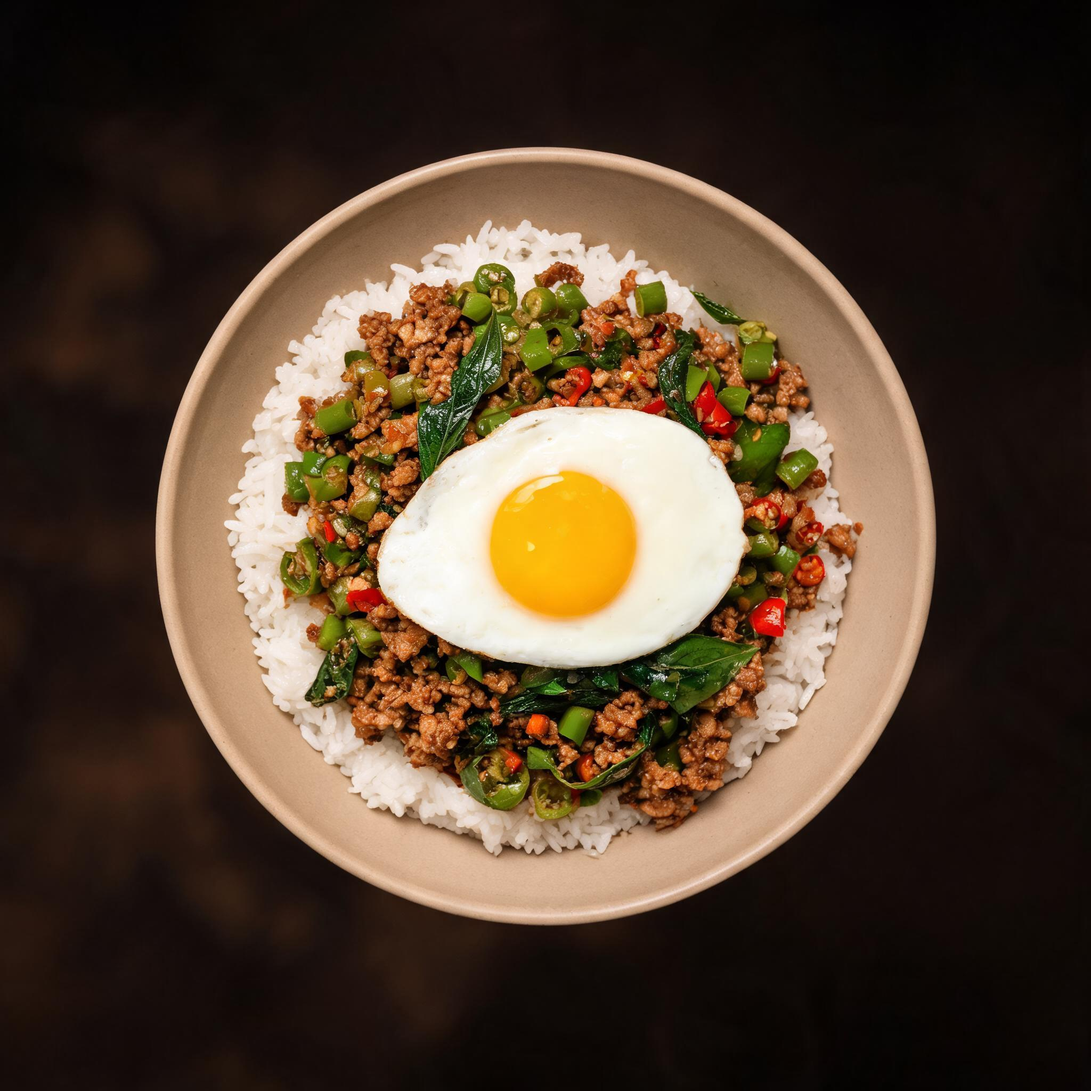
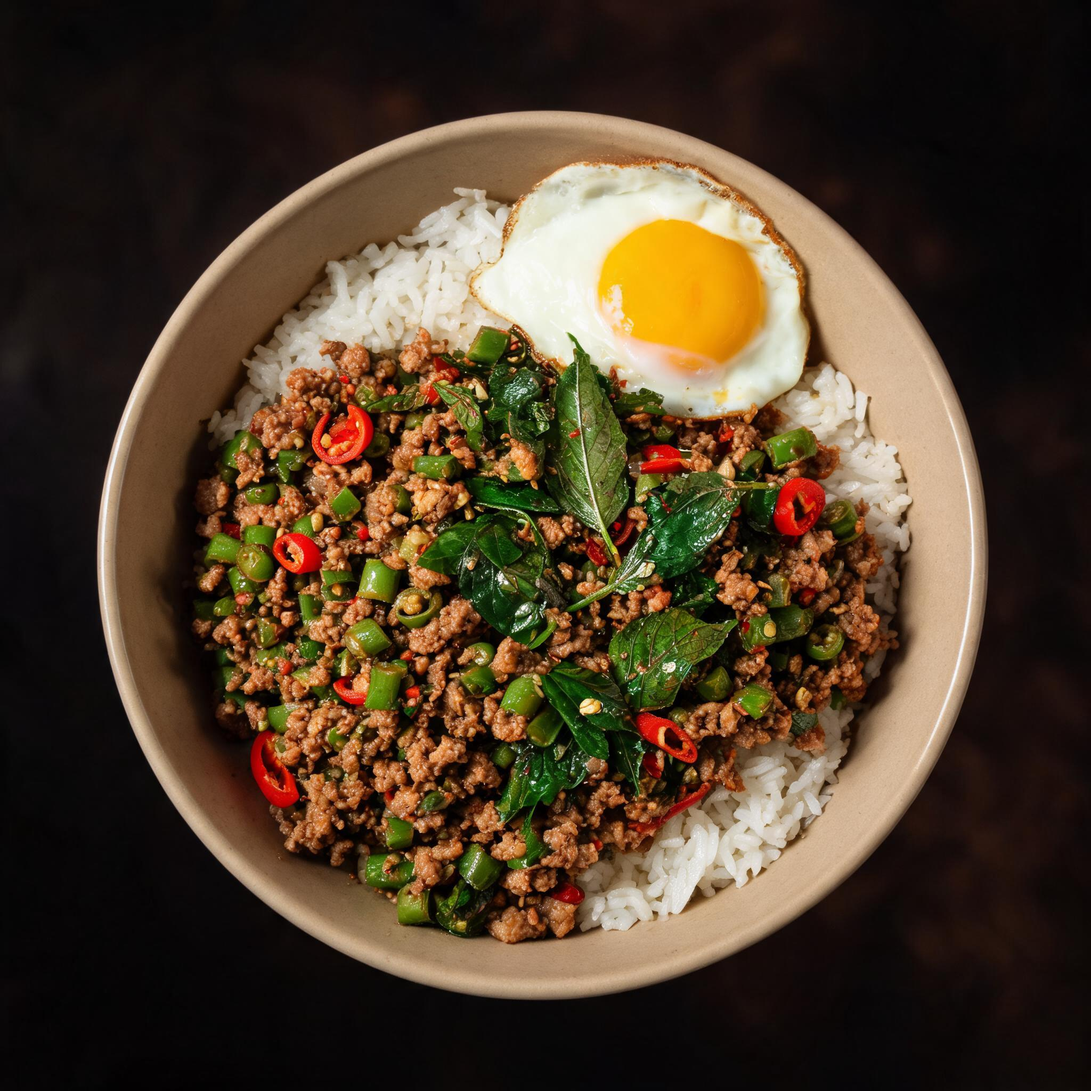
fix: rename to taishi pork dapaofan + smaller egg side

diff --git a/index.html b/index.html
@@ -317,7 +317,7 @@
       { id:'shuizhufn',   category:'川菜',  name:'水煮肥牛',     price:0, desc:'红油翻滚肥牛嫩，一勺热油滋啦魂。',      img:'./images/shuizhufn.jpg',    ingredients:'肥牛片、豆芽、千张丝、郫县豆瓣酱、火锅底料、辣椒面、花椒、葱花。', detail:'薄嫩肥牛在红油里打了个滚，铺在脆爽豆芽上，热油泼下滋啦一声，麻辣鲜香直冲天灵盖。', nutrition:'碳水 12% · 蛋白质 45% · 脂肪 43%', taste:4.3, selectedCount:0, steps:['肥牛焯熟捞出备用。','豆芽、千张丝焯出沥干。','葱姜蒜爆香，加1勺豆瓣酱和半块火锅底料炒化。','倒一碗清水煮开，加2勺生抽1勺老抽和少许鸡精盐。','下豆芽千张丝煮熟捞出铺碗底。','下肥牛煮入味，捞出铺在配菜上。','撒辣椒面、花椒、葱花。','热油泼上激出香味。'], tips:'肥牛焯水不超过20秒，变色就捞出，久了会老。' },
       { id:'jiaoyantudou',category:'家常菜',name:'椒盐土豆片',   price:0, desc:'外焦里糯椒盐香，黑芝麻点睛一口脆。',      img:'./images/jiaoyantudou.jpg', ingredients:'土豆、椒盐粉、黑芝麻、食用油。',                                 detail:'每一片煎到金黄起焦，椒盐咸香钻进软糯土豆芯，黑芝麻的坚果香在齿间炸开，简单却停不下来。', nutrition:'碳水 75% · 蛋白质 8% · 脂肪 17%', taste:2.3, selectedCount:0, steps:['土豆去皮切薄片洗净。','水开上锅蒸10分钟。','油热下锅煎至两面金黄起焦。','加1勺椒盐粉翻炒均匀。','撒黑芝麻出锅。'], tips:'土豆片蒸过再煎，外焦里糯的关键就是这一步。' },
       { id:'zhaxingbaogu',category:'家常菜',name:'炸杏鲍菇',     price:0, desc:'外酥里嫩会爆汁，比小酥肉还上瘾。',      img:'./images/zhaxingbaogu.jpg', ingredients:'杏鲍菇、淀粉、鸡蛋、椒盐、辣椒粉、食用油。',                     detail:'金黄酥壳咬开是滚烫的菇汁，椒盐的咸香裹着辣椒的微辣，外脆里嫩一口一个，夜市排队都不如自己炸。', nutrition:'碳水 30% · 蛋白质 12% · 脂肪 58%', taste:3.4, selectedCount:0, steps:['杏鲍菇切条状。','3勺淀粉+2个鸡蛋搅成糊状，加适量椒盐拌匀。','杏鲍菇均匀裹上面糊。','油烧至六成热（160°C），中小火下锅炸2-3分钟至微黄捞出。','油温升至八成热（180°C），大火复炸30秒至金黄酥脆。','捞出沥油，撒辣椒粉即可。'], tips:'复炸是酥脆的关键——第一次炸熟，第二次高温抢酥，少一步都不脆。' },
-      { id:'dapaofan',    category:'泰式料理',name:'泰式打抛猪肉饭',price:0, desc:'鱼露咸香九层塔，戳破蛋液拌饭魂。',    img:'./images/dapaofan.jpg',     ingredients:'猪肉末220g、长豆角80g、九层塔20g、蒜末、小米辣、鸡蛋、米饭。',  detail:'鱼露的鲜撞上九层塔的辛香，肉末裹着酱汁铺满米饭，戳破溏心蛋拌匀，每一粒米都吸饱了咸辣浓汁。', nutrition:'碳水 40% · 蛋白质 30% · 脂肪 30%', taste:4.1, selectedCount:0, steps:['长豆角切小粒，小米辣切圈，九层塔摘叶。','锅中倒油打入鸡蛋，小火煎1分钟成太阳蛋盛出。','锅中留油，蒜末小米辣炒香15秒。','下猪肉末中火炒1分30秒至变色松散。','加豆角和调味汁（鱼露10g+生抽8g+蚝油8g+老抽2g+糖4g+水30g）炒1分钟。','关火放九层塔翻拌15秒，盖在米饭上配太阳蛋。'], tips:'九层塔一定关火后再放，余温烫一下出香，炒久了会苦。' },
+      { id:'dapaofan',    category:'泰式料理',name:'泰式猪肉打抛饭',price:0, desc:'鱼露咸香九层塔，戳破蛋液拌饭魂。',    img:'./images/dapaofan.jpg',     ingredients:'猪肉末220g、长豆角80g、九层塔20g、蒜末、小米辣、鸡蛋、米饭。',  detail:'鱼露的鲜撞上九层塔的辛香，肉末裹着酱汁铺满米饭，戳破溏心蛋拌匀，每一粒米都吸饱了咸辣浓汁。', nutrition:'碳水 40% · 蛋白质 30% · 脂肪 30%', taste:4.1, selectedCount:0, steps:['长豆角切小粒，小米辣切圈，九层塔摘叶。','锅中倒油打入鸡蛋，小火煎1分钟成太阳蛋盛出。','锅中留油，蒜末小米辣炒香15秒。','下猪肉末中火炒1分30秒至变色松散。','加豆角和调味汁（鱼露10g+生抽8g+蚝油8g+老抽2g+糖4g+水30g）炒1分钟。','关火放九层塔翻拌15秒，盖在米饭上配太阳蛋。'], tips:'九层塔一定关火后再放，余温烫一下出香，炒久了会苦。' },
     ];
 
     const categories = ['东北菜','津菜','川菜','湘菜','鲁菜','韩式料理','家常菜','泰式料理','饮品','甜品','主食'];
